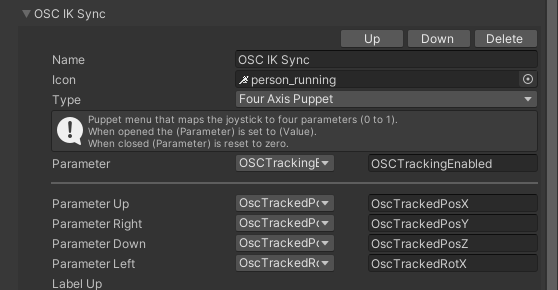
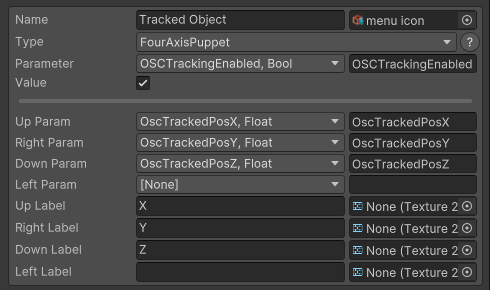
updated readme with instructions for vrcfury, fixed typos

diff --git a/README.md b/README.md
@@ -2,18 +2,37 @@
 
 A project to bring real world objects into the virtual world of VRChat. The objects need to be added to an avatar and are tracked with Vive trackers.
 
-## Getting Started
+# Getting Started
 
 Before getting started, make sure you have the ".NET Desktop Runtime 6.0" installed (latest version at time of writing is 6.0.29). You can download it [here](https://dotnet.microsoft.com/en-us/download/dotnet/6.0).
 Make sure you specifically download and install the **Desktop Runtime**, since the app is not going to run otherwise.
 
-Afterwards download the latest version of the software from the [Releases](https://github.com/jangxx/VRC-OSC-TrackedObjectApp/releases/latest) page. There are two downloads, the app itself and a Unity package containing the required avatar setup. You will also need the [VRCAvatars3Tools](https://booth.pm/en/items/2207020), which you can download from booth for free in order to use the _AnimatorControllerCombiner_ and the _ExpressionParametersCombiner_.
+Afterwards download the latest version of the software from the [Releases](https://github.com/jangxx/VRC-OSC-TrackedObjectApp/releases/latest) page. There are two downloads, the app itself and a Unity package containing the required avatar setup. To actually put it on the avatar, you can either use [VRCFury](https://vrcfury.com/) or a tool like [VRCAvatars3Tools](https://booth.pm/en/items/2207020), which you can download from booth for free in order to use the _AnimatorControllerCombiner_ and the _ExpressionParametersCombiner_.
 
-## Setup
+## Setup (VRCFury)
 
-This section explains the initial setup, both of the software and also the avatar. If you prefer to watch a video tutorial of this whole process, you can find it on [YouTube](https://youtu.be/y6I-t1YBorY).
-This section assumes that you have already set up your avatar with a custom FX layer and custom parameters as well as an expressions menu.
+This section explains the initial setup of the avatar when using VRCFury.
+The later [Calibration](#calibration) section is exactly the same between using VRCfury or setting up the avatar manually.
+
+1. Unpack the downloaded files to a location of your liking. The app does not need to be installed and can be run by just clicking on the executable, but you might want to copy it to `C:\\Program Files\VRC Tracked Objects` for example.
+
+2. Before you can calibrate the avatar, you will need to add the required setup to the avatar. Drag and drop the Unity package you downloaded into Unity to open it. Afterwards move the `TrackedObject VRCFury` prefab into the root of your avatar.
+
+3. Click on `TrackedObject VRCFury` in the hierarchy and in the "Armature Link" component, change the dropdown either to "Right Hand" (default) or "Left Hand". Where you put it will determine to which hand the object will be relatively placed so take into consideration with which hand you are going to hold the object more often. Due to the relative positioning, the tracking is by far the most stable when held in the hand to which the container is anchored, so if you're adding a bottle for example, anchoring it to your dominant hand is going to be the best option. If you enter playmode, the debug cube should now be moved into the wrist of your avatar.
+
+4. Upload the avatar as a new version.
+
+After these steps your avatar is fully set up for the next step, i.e. the [Calibration](#calibration).
+In a later step you will remove the debug cube and replace it with the object you actually want to track and then upload it again.
+
+## Setup (manually)
+
+This section explains the initial setup of the avatar when merging controllers and parameters manually.
+The later [Calibration](#calibration) section is exactly the same between setting up the avatar manually or using VRCFury.
+This method assumes that you have already set up your avatar with a custom FX layer and custom parameters as well as an expressions menu.
 If you don't know how to do these things you need to look for another tutorial on basic prop toggles for example, since this section assumes at least basic knowledge of Unity.
+
+If you prefer to watch a video tutorial of this whole process, you can find it on [YouTube](https://youtu.be/y6I-t1YBorY).
 
 1. Unpack the downloaded files to a location of your liking. The app does not need to be installed and can be run by just clicking on the executable, but you might want to copy it to `C:\\Program Files\VRC Tracked Objects` for example.
 
@@ -27,36 +46,35 @@ If you don't know how to do these things you need to look for another tutorial o
 
 6. Next you need to open the _ExpressionParametersCombiner_ from the same VRCAvatars3Tools. Set the included _Expression Parameters_ as the source and the VRCExpressionParameters object on your avatar as the destination. Then click **Combine**.
 
-7. Finally add a Four Axis puppet to your Expression menu which has the three `OscTrackedPos` parameters on it, as well as one of the `OscTrackedRot` ones (personally I chose `RotX` but it doesn't really matter). Set the Parameter option to `OSCTrackingEnabled` so that the parameter gets set to `true` when the menu is open and `false` when it is closed. This will cause the object to only track and be visible when the menu is open and the parameters are IK synced.  
+7. Finally add a Four Axis puppet to your Expression menu which has the three `OscTrackedPos` parameters on it,. Set the Parameter option to `OSCTrackingEnabled` so that the parameter gets set to `true` when the menu is open and `false` when it is closed. This will cause the object to only track and be visible when the menu is open and the parameters are IK synced.  
 Example:  
 ![menu setup](/resources/screenshot_2.png)
 
 8. Upload the avatar as a new version.
 
-After these steps your avatar is fully set up for the next step, i.e. the calibration.
-In a later step you will remove the debug cube and replace it with the object you actually want to track and the upload it again.
+After these steps your avatar is fully set up for the next step, i.e. the [Calibration](#calibration).
+In a later step you will remove the debug cube and replace it with the object you actually want to track and then upload it again.
 
-9. Start SteamVR and connect at least the controller of the hand you chose as the anchor in step 4 as well as the tracker you want to use for the object. Open the app you downloaded and unpacked in step 1. to be greeted with this window:  
+## Calibration
+
+1. Start SteamVR and connect at least the controller of the hand you chose as the anchor as well as the tracker you want to use for the object. Open the app you downloaded and unpacked in step 1. to be greeted with this window:  
 ![menu setup](/resources/screenshot_1.png).  
 Open the "Avatars" tab and copy-paste the Avatar ID from Unity into the respective input (you can find the Avatar ID for example in the `Pipeline Manager` on your avatar root or in the Content Manager section in the VRChat SDK window). Enter a name for the avatar and then click **Add**.
 
-10. Select your controller and tracker from the respective drop-down menus. Afterwards you have to start VRChat and switch into your freshly uploaded avatar. For the actual calibration I would recommend you to sit down on your desk with your VR headset so that you can still reach the keyboard while wearing it. Click on the **Start calibration** button to have three sides of a cube appear in the location of your controller. The task is now to align this cube with the one you have added to your avatar. To do this, use the arrow keys on your keyboard to switch through the seven different inputs. Up and down on the keyboard increments and decrements the value respectively, while left and right will switch to the next and previous input. Make sure that the arrows pointing from `X Neg` to `X Pos`, `Y Neg` to `Y Pos` and `Z Neg` to `Z Pos` point along the respective axes on the debug cube, while being perfectly in line with the sides of the cube. Also ensure that the scale matches. If you are satisfied with the result, click on **Stop calibration** to finish the calibration process.
+2. Select your controller and tracker from the respective drop-down menus. Afterwards you have to start VRChat and switch into your freshly uploaded avatar. For the actual calibration I would recommend you to sit down on your desk with your VR headset so that you can still reach the keyboard while wearing it. Click on the **Start calibration** button to have three sides of a cube appear in the location of your controller. The task is now to align this cube with the one you have added to your avatar. To do this, use the arrow keys on your keyboard to switch through the seven different inputs. Up and down on the keyboard increments and decrements the value respectively, while left and right will switch to the next and previous input. Make sure that the arrows pointing from `X Neg` to `X Pos`, `Y Neg` to `Y Pos` and `Z Neg` to `Z Pos` point along the respective axes on the debug cube, while being perfectly in line with the sides of the cube. Also ensure that the scale matches. If you are satisfied with the result, click on **Stop calibration** to finish the calibration process.
 
-11. You are now ready for the first test! Switch to the "Tracking" tab and click on **Start Tracking**. In VRChat go to the OSC section of the Action Menu in order to reset the OSC config (so that it includes the new parameters you added). This action should also reload your avatar so that the tracking app can pick up the avatar change. If the "Current status" still says "Inactive (unkown avatar)", switch to another avatar and back so that the app can get notified of the change. Open the Action Menu again, go to your expressions and open the Four Axis puppet you added in step 7. If you did everything correctly, the cube should now follow the tracker you chose! We are almost done at this point.
+3. You are now ready for the first test! Switch to the "Tracking" tab and click on **Start Tracking**. In VRChat go to the OSC section of the Action Menu in order to reset the OSC config (so that it includes the new parameters you added). This action should also reload your avatar so that the tracking app can pick up the avatar change. If the "Current status" still says "Inactive (unkown avatar)", switch to another avatar and back so that the app can get notified of the change. Open the Action Menu again, go to your expressions and open the Four Axis puppet labeled "Tracked Object". If you did everything correctly, the cube should now follow the tracker you chose! We are almost done at this point.
 
-12. Open the "File" menu within the tracking app and save the config to a file.
+4. Open the "File" menu within the tracking app and click "Save config" to save the config to the default location.
 
-13. Go back to Unity and replace the debug cube with an object of your liking (or place it next to it within the `Container` object). It can be a good idea to do this _after_ you have already put the tracker on the object you want to track with the debug cube still visiable so that you can get a sense for the orientation.
+5. Go back to Unity and replace the debug cube with an object of your liking. Alternatively you can also change the Tag on the debug cube to *EditorOnly* and disable the object. This will prevent it from being uploaded and taking up a material slot, but you can easily re-enable it if you need to get a sense for the orientation of a tracked object later.
 
-14. Finally toggle the `Container` off so that your object is hidden by default. It will automatically get toggled on when the menu is open and the object is tracking, but it will be hidden otherwise.
+6. Finally toggle the `Container` off so that your object is hidden by default. It will automatically get toggled on when the menu is open and the object is tracking, but it will be hidden otherwise.
 
 # Normal usage
 
-While the initial setup of the system is rather involved, actually using it is really easy. Simply launch the app, load the config under "File > Open config file" and click on start tracking.
+While the initial setup of the system is rather involved, actually using it is really easy. Simply launch the app and click on start tracking.
 You can then jump into VRChat and see the tracked object by simply opening the Four Axis puppet menu.
-
-If you want to streamline the process even more, you can check "Start tracking when launched from config file", save the config again and then set up a shortcut that has the path of the config file as its first parameter.
-This way you can click on a single shortcut which will start the app and start tracking immediately (as long as the controller and tracker are connected).
 
 # The user interface
 
@@ -64,7 +82,7 @@ This is an overview over the entire interface of the app as well as an explanati
 
 ![entire interface](/resources/explanation_screenshots.png)
 
-1. If this is checked, tracking will begin immediately after the program is launched. As the label implies, this only works if the app is launched with the config file as its first launch parameter so that it can be loaded immediately on startup.
+1. If this is checked, tracking will begin immediately after the program is launched and a config has been saved to the default location or is supplied as the first launch parameter as a path to a config file.
 
 2. Configure your OSC input and output addresses here. Both are needed, because we need bidirectional communication with VRChat. On the one end we need to listen for the enable parameter and on the other end we need to send in the tracking values.
 
@@ -78,7 +96,7 @@ This is an overview over the entire interface of the app as well as an explanati
 
 7. This is the global avatar selector. Choose the avatar you want to calibrate or setup parameters for here.
 
-8. Here you can see and edit the calibration values. Do not that these values are only read at the very beginning of the tracking and calibration process. It is therefore not possible to live edit calibration values, not even while in the calibration procedure.
+8. Here you can see and edit the calibration values. Do note that these values are only read at the very beginning of the tracking and calibration process. It is therefore not possible to live edit calibration values, not even while in the calibration procedure.
 
 9. This buttons starts the calibration procedure. The currently active field will be highlighted in red. Pressing `Left Arrow` and `Right Arrow` on the keyboard switches between the different fields, while pressing `Up Arrow` and `Down Arrow` increments and decrements the values respectively.
 
@@ -118,7 +136,7 @@ Afterwards the final calculation we need to do is:
 
 Check that the calibration is correct. Make sure that the calibration cube has exactly the same size on your avatar as it has when you first put it into the scene (that means its scale should be 1 if your avatar is not scaled and `1/scale` if it is).
 
-Also make sure that the Anchor is actually at (0,0,0) and with (0,0,0) rotation relative to the hand bone. Technically this is not strictly neccessary, but for your own sanity it is way easier to do all the transforming and rotating in the tracking app than doing some of it in Unity and some of it in the tracking app. Normally the tracking cube should sit in your wrist and because you remove it after the calibration anyway, there is no need to move it around to make it look like you're holding it in your hand.
+**If using the manual setup method:** Also make sure that the Anchor is actually at (0,0,0) and with (0,0,0) rotation relative to the hand bone. Technically this is not strictly neccessary, but for your own sanity it is way easier to do all the transforming and rotating in the tracking app than doing some of it in Unity and some of it in the tracking app. Normally the tracking cube should sit in your wrist and because you remove it after the calibration anyway, there is no need to move it around to make it look like you're holding it in your hand.
 
 ## The tracking suddenly got worse
 
@@ -126,9 +144,9 @@ The most common reason for this problem that I have found is changes in the scal
 This can happen in a variety of ways:
 
 - When changing the "real height" in the settings
-- When chaning size measurement between wingspan and height
+- When changing size measurement between wingspan and height
 - probably others too
 
-If you changed _anything at all_ that might be related to your scale in VRChat, try to run the calibration again and see if the size of the cubes still match up.
+If you changed _anything at all_ that might be related to your scale in VRChat, try to run the calibration again and see if the size of the cubes still line up.
 More often than not they don't anymore and small tweaks to the scale are neccessary.
 Luckily it's only the scale that gets messed up so this calibration step should not take more than a few seconds.
